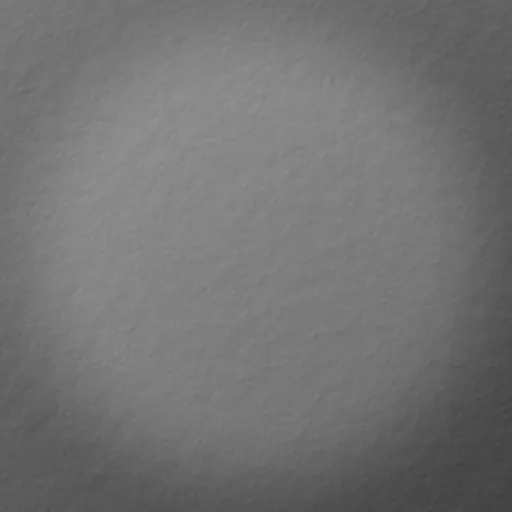
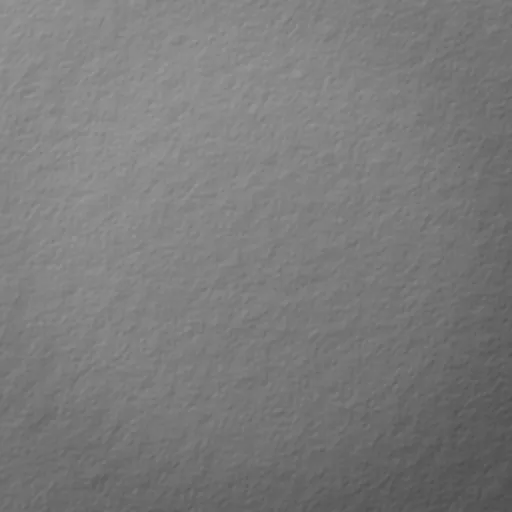
feat(material): Licht-Ebene über der Randabdunklung, Standard an; Steine sofort als Bild (n9 E2)
Abnahme am Bild (A/B-Collagen tests/shots/technik/mat_*): Die Vorbau-Ebene ersetzte die Randabdunklung und wirkte
dadurch flach und heller. Jetzt liegt sie zusätzlich darüber (Licht links oben 30, leichte Vignette 14, Struktur 11) –
Holz und Filz werden satter, dunkle Felder tiefer. MATERIAL_DEFAULT = true (flags.js), ?material=0 lädt die Ebene
gar nicht erst. Bildkosten p95 Halma/Dame/Schnapsen an gegen aus: −0,4 … +0,5 ms (Rauschen), CPU gleich.

Sprites: Steine blieben bis zum ersten Zug Vektor (kein Neuzeichnen, wenn ein Bild fertig wird). spriteLater()
tauscht die Vektor-Formen an Ort und Stelle gegen das fertige Bild, spriteImage() die Rückfall-Größe gegen die
passende Kachel – Dame, Halma, Backgammon, Hold'em-Chips, Vier, Blackjack-Bohnen zeigen ab dem ersten Bild Sprites.

diff --git a/src/ui/svg.js b/src/ui/svg.js
@@ -1,7 +1,8 @@
 // SVG-Helfer für die Bretter: Holzmuster (Poly Haven, CC0), Stein-Verläufe, Schatten, Krone, Animation.
 // Mit Deko (src/ui/deko.js): Steine mit Glanzlicht und weichem Schatten, Krone mit Goldverlauf, Züge mit leichtem Anheben.
 import { DEKO, whenNoise } from './deko.js';
-import { spriteImage } from './sprites.js';
+import { spriteImage, spriteLater } from './sprites.js';
+import { useMaterial } from './flags.js';
 export const NS = 'http://www.w3.org/2000/svg';
 
 export function s(tag, attrs = {}, ...children) {
@@ -102,7 +103,8 @@ export function ensureDekoDefs() {
       s('path', { d: 'M-8 1.5 C-3 -4 3 4.5 8 -1', fill: 'none', stroke: 'rgba(45,15,4,.75)', 'stroke-width': 1.8, 'stroke-linecap': 'round' }),
       s('ellipse', { cx: -4.5, cy: -4, rx: 4.5, ry: 2, transform: 'rotate(-18 -4.5 -4)', fill: '#ffe2c4', opacity: 0.45 })));
   // n9 Material: vorgebackene Licht-Ebene (tools/bake_material.py), streckt sich über die ganze Fläche (soft-light)
-  defs.append(s('pattern', { id: 'dk-matlight', patternContentUnits: 'objectBoundingBox', width: 1, height: 1 },
+  // Licht-Ebene nur laden, wenn das Material an ist (?material=0: kein Abruf)
+  if (useMaterial()) defs.append(s('pattern', { id: 'dk-matlight', patternContentUnits: 'objectBoundingBox', width: 1, height: 1 },
     s('image', { href: 'assets/wood/light-overlay.webp', width: 1, height: 1, preserveAspectRatio: 'none' })));
   // Filz-Rauschen als Muster (Kachel kommt asynchron aus deko.js)
   const noise = s('pattern', { id: 'dk-noise', patternUnits: 'userSpaceOnUse', width: 256, height: 256 });
@@ -130,7 +132,8 @@ function dekoPiece(color, r, king) {
   const white = color === 0;
   const g = s('g', { class: 'pc ' + (white ? 'pc-w' : 'pc-b') });
   // vorgezeichnetes Bild (ein Element statt sieben); bis es fertig ist, dieselbe Form als Vektor
-  const img = spriteImage(s, `st:${white ? 'w' : 'b'}:${king ? 'k' : ''}`, r);
+  const key = `st:${white ? 'w' : 'b'}:${king ? 'k' : ''}`;
+  const img = spriteImage(s, key, r);
   if (img) { g.append(img); return g; }
   g.append(
     s('ellipse', { class: 'pc-sh', cx: r * 0.14, cy: r * 0.24, rx: r * 1.12, ry: r * 1.04, fill: 'url(#dk-shadow)' }),
@@ -143,6 +146,7 @@ function dekoPiece(color, r, king) {
     s('ellipse', { cx: -r * 0.28, cy: -r * 0.34, rx: r * 0.5, ry: r * 0.3, transform: `rotate(-30 ${-r * 0.28} ${-r * 0.34})`, fill: 'url(#dk-spec)', opacity: white ? 0.7 : 0.3 }),
     s('ellipse', { cx: -r * 0.4, cy: -r * 0.46, rx: r * 0.17, ry: r * 0.1, transform: `rotate(-32 ${-r * 0.4} ${-r * 0.46})`, fill: '#fff', opacity: white ? 0.95 : 0.55 }));
   if (king) g.appendChild(crown(r * 0.62));
+  spriteLater(s, key, r, [...g.childNodes]);
   return g;
 }
 
@@ -150,7 +154,8 @@ function dekoPiece(color, r, king) {
 const PIPS = (o) => ({ 1: [[0, 0]], 2: [[-o, -o], [o, o]], 3: [[-o, -o], [0, 0], [o, o]], 4: [[-o, -o], [o, -o], [-o, o], [o, o]], 5: [[-o, -o], [o, -o], [0, 0], [-o, o], [o, o]], 6: [[-o, -o], [o, -o], [-o, 0], [o, 0], [-o, o], [o, o]] });
 export function die3d(v, size, { used = false, blank = false, cls = '' } = {}) {
   const g = s('g', { class: 'die dk-die' + (used ? ' used' : '') + (blank ? ' blank' : '') + (cls ? ' ' + cls : '') });
-  const img = spriteImage(s, `die:${blank ? 0 : v}`, size / 1.62);
+  const dkey = `die:${blank ? 0 : v}`;
+  const img = spriteImage(s, dkey, size / 1.62);
   if (img) { g.append(img); if (used) g.setAttribute('opacity', 0.55); return g; }
   const h = size / 2, rx = size * 0.2;
   g.append(
@@ -163,19 +168,22 @@ export function die3d(v, size, { used = false, blank = false, cls = '' } = {}) {
       s('circle', { cx: px + size * 0.022, cy: py + size * 0.026, r: size * 0.05, fill: '#fff', opacity: 0.18 }));
   }
   if (used) g.setAttribute('opacity', 0.55);
+  spriteLater(s, dkey, size / 1.62, [...g.childNodes]);
   return g;
 }
 
 // farbige Kugel/Scheibe (Halma-Murmel, Ludo-Figur von oben, Vier-Stein): Grundfarbe + Licht + Glanzpunkt + Schatten
 export function ball(col, r, { shadow = true, ring = false } = {}) {
   const g = s('g', { class: 'pc dk-ball' });
-  const img = shadow ? spriteImage(s, `ball:${col}:${ring ? 'r' : ''}`, r) : null;
+  const bkey = `ball:${col}:${ring ? 'r' : ''}`;
+  const img = shadow ? spriteImage(s, bkey, r) : null;
   if (img) { g.append(img); return g; }
   if (shadow) g.append(s('ellipse', { class: 'pc-sh', cx: r * 0.16, cy: r * 0.26, rx: r * 1.1, ry: r * 1.02, fill: 'url(#dk-shadow)' }));
   g.append(s('circle', { r, fill: col, stroke: 'rgba(0,0,0,.55)', 'stroke-width': r * 0.07 }),
     s('circle', { r: r * 0.965, fill: 'url(#dk-ball)' }));
   if (ring) g.append(s('circle', { r: r * 0.66, fill: 'none', stroke: 'rgba(255,255,255,.3)', 'stroke-width': r * 0.08 }));
   g.append(s('ellipse', { cx: -r * 0.32, cy: -r * 0.4, rx: r * 0.36, ry: r * 0.22, transform: `rotate(-30 ${-r * 0.32} ${-r * 0.4})`, fill: 'url(#dk-spec)', opacity: 0.9 }));
+  if (shadow) spriteLater(s, bkey, r, [...g.childNodes]);
   return g;
 }
 

diff --git a/src/ui/sprites.js b/src/ui/sprites.js
@@ -2,8 +2,10 @@
 // gezeichnet (Blob-URL, kein Netz) und dann als ein einziges <image> je Stein benutzt. Das spart gegenüber Vektor-Steinen
 // (bis zu 7 Formen mit Verläufen) Arbeit im Hauptthread und beim Rastern. Erzeugt wird erst bei Bedarf (nur die Sorten
 // des gerade gespielten Spiels); bis ein Bild fertig ist (wenige ms), zeichnet die Ansicht die gleiche Form als Vektor.
-// Kein extra Neuzeichnen, wenn ein Bild fertig wird (das würde z. B. eine angetippte Spalte/Karte verwerfen) – der nächste
-// Zug zeichnet ohnehin neu und nimmt dann die Bilder.
+// Kein extra Neuzeichnen, wenn ein Bild fertig wird (das würde z. B. eine angetippte Spalte/Karte verwerfen). n9: Statt
+// auf den nächsten Zug zu warten, tauscht spriteLater() die Vektor-Formen eines Steins an Ort und Stelle gegen das
+// fertige Bild (die Gruppe des Steins bleibt, samt Lage, Klassen und laufender Animation); ebenso bekommt ein Bild in
+// der Rückfall-Größe die passende Kachel, sobald sie fertig ist.
 // Licht wie überall von links oben, Schatten nach rechts unten. Maße: Kachel S × S Pixel, Objekt-Radius RS.
 // n9 „je Größe“: Die Kachel wird in der Pixelgröße gebacken, in der der Stein auf dem Bildschirm erscheint (Stufen
 // TILES, Maßstab aus setSpriteScale) – große Steine (Desktop, Dame) bleiben scharf, kleine (Halma) kosten beim Rastern
@@ -16,6 +18,7 @@ export const RS = S * 0.36;    // Radius des Objekts in der Kachel (Platz für S
 export const TILES = [48, 64, 96, 128, 168, 224, 288];
 const cache = new Map();       // Schlüssel@Kachel → URL | null (wird gezeichnet) | false (geht nicht)
 const anySize = new Map();     // Schlüssel → zuletzt fertige URL irgendeiner Größe (Rückfall statt Vektor beim Größenwechsel)
+const waiting = new Map();     // Schlüssel@Kachel → [Funktion(url)] – wartet, bis das Bild fertig ist
 const useSprites = urlFlag('sprites', true);
 
 // kleinste Kachelstufe, die einen Stein mit Radius pxR (Gerätepixel) ohne Hochskalieren trägt
@@ -41,8 +44,11 @@ function make(id, key, tile, draw) {
       const url = b ? URL.createObjectURL(b) : false;
       cache.set(id, url);
       if (url) anySize.set(key, url);
+      const fs = waiting.get(id);
+      waiting.delete(id);
+      if (url && fs) for (const f of fs) f(url);
     }, 'image/png');
-  } catch { cache.set(id, false); }
+  } catch { cache.set(id, false); waiting.delete(id); }
 }
 
 // URL des Bildchens oder null (dann bitte als Vektor zeichnen); stößt das Zeichnen beim ersten Aufruf an.
@@ -187,10 +193,40 @@ const DRAW = {
   }
 };
 
-// Bild-Element für eine Sorte, zentriert auf (0, 0); r = gewünschter Objekt-Radius in Brett-Einheiten
-export function spriteImage(s, key, r, cx = 0, cy = 0) {
-  const url = sprite(key, pxPerUnit ? tileFor(r * pxPerUnit) : S);
-  if (!url) return null;
+const tileOf = (r) => (pxPerUnit ? tileFor(r * pxPerUnit) : S);
+function onReady(key, tile, f) {
+  const id = key + '@' + tile;
+  if (!waiting.has(id)) waiting.set(id, []);
+  waiting.get(id).push(f);
+}
+function makeImage(s, url, r, cx, cy) {
   const w = (S * r) / RS;
   return s('image', { href: url, x: cx - w / 2, y: cy - w / 2, width: w, height: w, class: 'dk-spr' });
+}
+
+// Bild-Element für eine Sorte, zentriert auf (0, 0); r = gewünschter Objekt-Radius in Brett-Einheiten.
+// Ist die passende Kachel noch nicht fertig, kommt eine andere Größe; sie wird gegen die passende getauscht.
+export function spriteImage(s, key, r, cx = 0, cy = 0) {
+  const tile = tileOf(r);
+  const url = sprite(key, tile);
+  if (!url) return null;
+  const img = makeImage(s, url, r, cx, cy);
+  if (cache.get(key + '@' + tile) !== url) onReady(key, tile, (u) => img.setAttribute('href', u));
+  return img;
+}
+
+// Stein wurde als Vektor gezeichnet (Bild noch nicht fertig): sobald es fertig ist, die Formen nodes durch das Bild
+// ersetzen – nur wenn sie noch im Dokument hängen (sonst wurde längst neu gezeichnet). attrs: z. B. transform.
+export function spriteLater(s, key, r, nodes, cx = 0, cy = 0, attrs = null) {
+  if (!DEKO.on || !useSprites || typeof document === 'undefined' || !nodes.length) return;
+  const tile = tileOf(r);
+  if (cache.get(key + '@' + tile) === false) return;
+  onReady(key, tile, (url) => {
+    const first = nodes[0];
+    if (!first.isConnected || !first.parentNode) return;
+    const img = makeImage(s, url, r, cx, cy);
+    if (attrs) for (const [k, v] of Object.entries(attrs)) img.setAttribute(k, v);
+    first.parentNode.insertBefore(img, first);
+    for (const n of nodes) n.remove();
+  });
 }

diff --git a/src/ui/material.js b/src/ui/material.js
@@ -2,15 +2,17 @@
 // Filz mit Licht von oben, gebackener weicher Schatten. Alles wird einmal gezeichnet und liegt in der Ebene unter dem
 // Brett (deko.js boardLayers) – Zug-Animationen rastern es nicht neu. Licht kommt immer von links oben.
 import { s } from './svg.js';
-import { urlFlag } from './flags.js';
+import { useMaterial, MATERIAL_DEFAULT } from './flags.js';
 
-// n9 (Audit #5): eine vorgebackene Licht-Ebene (Licht links oben + Vignette + Mikro-Normalen, tools/bake_material.py)
-// ersetzt den Vignetten-Verlauf auf Spielfläche und Filz, dazu eine feine Fase an der Rahmenkante. ?material=0|1.
-// Standard aus, bis der Heavy-Job es am Bild abgenommen hat (A/B-Collage) – dann MATERIAL_DEFAULT = true.
-export const MATERIAL_DEFAULT = false;
-export const useMaterial = () => urlFlag('material', MATERIAL_DEFAULT);
+// n9 (Audit #5): eine vorgebackene Licht-Ebene (Licht links oben + leichte Vignette + Mikro-Normalen,
+// tools/bake_material.py) liegt über der Randabdunklung von Spielfläche und Filz, dazu eine feine Fase an der
+// Rahmenkante. ?material=0 schaltet beides ab (Standard an, flags.js).
+export { useMaterial, MATERIAL_DEFAULT };
 export const MAT_LIGHT = { fill: 'url(#dk-matlight)', style: 'mix-blend-mode: soft-light', class: 'dk-matlight' };
 const LIGHT = MAT_LIGHT;
+
+// Licht-Ebene (nur mit Material) über der Randabdunklung: Licht links oben + feine Struktur, eine Fläche
+export const matLight = (x, y, w, h, rx) => (useMaterial() ? [rr(x, y, w, h, rx, LIGHT)] : []);
 
 // gebackener Schatten unter einer Form (Kopie, schwarz, nach unten versetzt, weichgezeichnet)
 export function shadowUnder(g, shape, { dy = 12, op = 0.5, soft = 'dk-soft' } = {}) {
@@ -43,7 +45,8 @@ export function woodFrame(g, x, y, w, h, rx, { shadow = true, fill = 'url(#sb-wo
 export function inset(g, x, y, w, h, rx, fill) {
   if (fill) g.append(rr(x, y, w, h, rx, { fill }));
   g.append(
-    rr(x, y, w, h, rx, useMaterial() ? LIGHT : { fill: 'url(#dk-vig)' }),
+    rr(x, y, w, h, rx, { fill: 'url(#dk-vig)' }),
+    ...matLight(x, y, w, h, rx),
     rr(x, y, w, h, rx, { fill: 'url(#dk-sheen)' }),
     rr(x - 1.5, y - 1.5, w + 3, h + 3, rx + 1, { fill: 'none', stroke: 'rgba(30,14,4,.55)', 'stroke-width': 3 }),
     s('path', { d: `M ${x + rx} ${y + h + 2.5} H ${x + w - rx}`, stroke: 'rgba(255,236,205,.35)', 'stroke-width': 2, fill: 'none' }));
@@ -51,7 +54,7 @@ export function inset(g, x, y, w, h, rx, fill) {
 
 // nur Glanz + Innenschatten über einer schon gezeichneten Fläche (z. B. Schachbrett aus Feldern)
 export function lacquer(g, x, y, w, h, rx = 0) {
-  g.append(rr(x, y, w, h, rx, useMaterial() ? LIGHT : { fill: 'url(#dk-vig)' }), rr(x, y, w, h, rx, { fill: 'url(#dk-sheen)' }));
+  g.append(rr(x, y, w, h, rx, { fill: 'url(#dk-vig)' }), ...matLight(x, y, w, h, rx), rr(x, y, w, h, rx, { fill: 'url(#dk-sheen)' }));
 }
 
 // Filz (Rechteck): Grundfarbe, Rauschen, Licht von oben, Randabdunklung, Ziernaht
@@ -59,12 +62,12 @@ export function feltRect(g, x, y, w, h, rx, { cls = 'felt', stitch = true, color
   g.append(rr(x, y, w, h, rx, color ? { fill: color } : { class: cls }),
     rr(x, y, w, h, rx, { fill: 'url(#dk-noise)', opacity: 0.9 }),
     rr(x, y, w, h, rx, { fill: 'url(#dk-spot)' }),
-    rr(x, y, w, h, rx, useMaterial() ? LIGHT : { fill: 'url(#dk-feltvig)' }));
+    rr(x, y, w, h, rx, { fill: 'url(#dk-feltvig)' }), ...matLight(x, y, w, h, rx));
   if (stitch) g.append(rr(x + 16, y + 16, w - 32, h - 32, Math.max(4, rx - 8), { fill: 'none', stroke: 'rgba(255,236,190,.2)', 'stroke-width': 2.5, 'stroke-dasharray': '10 7' }));
 }
 
 // Filz (Ellipse, Hold'em)
 export function feltEllipse(g, cx, cy, rx, ry, { cls = 'felt' } = {}) {
   const e = (a) => s('ellipse', { cx, cy, rx, ry, ...a });
-  g.append(e({ class: cls }), e({ fill: 'url(#dk-noise)', opacity: 0.9 }), e({ fill: 'url(#dk-spot)' }), e(useMaterial() ? LIGHT : { fill: 'url(#dk-feltvig)' }));
+  g.append(e({ class: cls }), e({ fill: 'url(#dk-noise)', opacity: 0.9 }), e({ fill: 'url(#dk-spot)' }), e({ fill: 'url(#dk-feltvig)' }), ...(useMaterial() ? [e(LIGHT)] : []));
 }

diff --git a/src/games/holdem/view.js b/src/games/holdem/view.js
@@ -8,7 +8,7 @@ import * as E from './engine.js';
 import { evaluate, handName, catName, draws, bestFive } from './eval.js';
 import { handClass, PERCENTILE } from './equity.js';
 import { s, ensureDefs, place, flyIn, fadeIn, toScreen, onTap, ball } from '../../ui/svg.js';
-import { spriteImage } from '../../ui/sprites.js';
+import { spriteImage, spriteLater } from '../../ui/sprites.js';
 import { holdemTimes, OWN } from '../../tempo.js';
 import { frCard, backCard, ensureCardDefs, frHeight } from '../../ui/cards.js';
 import { SEAT_COLORS } from '../../ui/seatcolors.js';
@@ -41,6 +41,7 @@ function dkChip(g, x, y, r, col) {
   const img = spriteImage(s, 'chip:' + col, r, x, y);
   if (img) { g.append(img); return; }
   const ry = r * 0.42, e = (a) => s('ellipse', { cx: x, rx: r, ry, ...a });
+  const n0 = g.childNodes.length;
   g.append(e({ cy: y + 5, fill: 'rgba(0,0,0,.28)' }),
     e({ cy: y + 3.5, fill: col, stroke: 'rgba(0,0,0,.45)', 'stroke-width': 1.5 }),
     e({ cy: y + 3.5, fill: 'url(#dk-chipedge)' }),
@@ -48,6 +49,7 @@ function dkChip(g, x, y, r, col) {
     e({ cy: y, fill: 'none', stroke: '#fff7e6', 'stroke-width': 2.6, 'stroke-dasharray': `${r * 0.42} ${r * 0.36}` }),
     s('ellipse', { cx: x, cy: y, rx: r * 0.62, ry: ry * 0.62, fill: 'none', stroke: 'rgba(255,247,230,.55)', 'stroke-width': 1.6 }),
     s('ellipse', { cx: x - r * 0.25, cy: y - ry * 0.35, rx: r * 0.45, ry: ry * 0.32, fill: '#fff', opacity: 0.22 }));
+  spriteLater(s, 'chip:' + col, r, [...g.childNodes].slice(n0), x, y);
 }
 // Betrag in Chips zerlegen (größte zuerst), höchstens 3 Stapel × 6 Chips
 function dkStacks(amount) {

diff --git a/src/games/vier/view.js b/src/games/vier/view.js
@@ -3,7 +3,7 @@
 // nochmal antippen → einwerfen (Schutz vor Fehltipps, wie das Ausspielen bei Schnapsen). Gewinnreihe leuchtet.
 import { COLS, ROWS } from './engine.js';
 import { s, ensureDefs, toBoard, toScreen, onTap } from '../../ui/svg.js';
-import { spriteImage } from '../../ui/sprites.js';
+import { spriteImage, spriteLater } from '../../ui/sprites.js';
 import { OWN, vierFall } from '../../tempo.js';
 import { DEKO, boardLayers } from '../../ui/deko.js';
 import { shadowUnder } from '../../ui/material.js';
@@ -60,6 +60,7 @@ export function createBoard(host, { onMove, onHint }) {
         s('circle', { r: R * 0.66, fill: 'none', stroke: 'rgba(0,0,0,.22)', 'stroke-width': 5, transform: 'translate(1.5 2)' }),
         s('circle', { r: R * 0.66, fill: 'none', stroke: 'rgba(255,255,255,.42)', 'stroke-width': 4 }),
         s('ellipse', { cx: -R * 0.34, cy: -R * 0.42, rx: R * 0.34, ry: R * 0.18, transform: `rotate(-30 ${-R * 0.34} ${-R * 0.42})`, fill: '#fff', opacity: 0.6 }));
+      spriteLater(s, 'v4:' + COLORS[seat], R, [...g.childNodes]);
       return g;
     }
     g.append(s('circle', { r: R, fill: COLORS[seat], stroke: 'rgba(0,0,0,.45)', 'stroke-width': 3 }),

diff --git a/src/games/blackjack/view.js b/src/games/blackjack/view.js
@@ -7,7 +7,7 @@ import { OWN } from '../../tempo.js';
 import { frCard, backCard, ensureCardDefs, frHeight } from '../../ui/cards.js';
 import { SEAT_COLORS } from '../../ui/seatcolors.js';
 import { DEKO, boardLayers } from '../../ui/deko.js';
-import { spriteImage } from '../../ui/sprites.js';
+import { spriteImage, spriteLater } from '../../ui/sprites.js';
 import { woodFrame, feltRect } from '../../ui/material.js';
 
 const SIZE = 1000;
@@ -84,7 +84,11 @@ export function createBoard(host, { onHint }) {
       const tr = `translate(${x.toFixed(1)} ${y.toFixed(1)}) rotate(${rot})`;
       const img = spriteImage(s, 'bean', 13.5 * k);
       if (img) { img.setAttribute('transform', tr); pile.append(img); }
-      else pile.append(s('use', { href: '#dk-bean', x: -15 * k, y: -11 * k, width: 30 * k, height: 22 * k, transform: tr }));
+      else {
+        const u = s('use', { href: '#dk-bean', x: -15 * k, y: -11 * k, width: 30 * k, height: 22 * k, transform: tr });
+        pile.append(u);
+        spriteLater(s, 'bean', 13.5 * k, [u], 0, 0, { transform: tr });
+      }
     }
     g.append(pile);
   }

diff --git a/sw.js b/sw.js
@@ -5,7 +5,7 @@
 //   (?h=…), so lädt ein Update nur fehlende oder geänderte Bilder nach; alte Fassungen werden beim Aktivieren entfernt.
 // Kartenpakete (n9): die @2x-Einzelkarten liegen bitgleich in 2 Paketen (tools/cardpack.py). Vorab geladen werden nur
 // die Pakete; eine Karten-Anfrage beantwortet der Worker mit dem Ausschnitt aus dem Paket (Blob.slice, ohne Kopie).
-const VERSION = '53a9b52014';
+const VERSION = '3896d093aa';
 const CORE = 'spielebox-core-' + VERSION;
 const ASSETS = 'spielebox-assets';
 const CORE_FILES = [
@@ -339,7 +339,7 @@ const ASSET_HASH = {
   'assets/wood/dark.webp': 'e8d44bb775',
   'assets/wood/frame.jpg': '56dcbc378c',
   'assets/wood/frame.webp': '737426a5c8',
-  'assets/wood/light-overlay.webp': '3a6a6d667d',
+  'assets/wood/light-overlay.webp': 'bc61655046',
   'assets/wood/light.jpg': 'a9a5d250d3',
   'assets/wood/light.webp': 'ddd41ed8ab'
 };

diff --git a/src/games/halma/view.js b/src/games/halma/view.js
@@ -74,7 +74,8 @@ export function createBoard(host, { onMove, onHint }) {
       if (col) gB.append(s('polygon', { points: poly(grow(campPoly(k), -24)), fill: col, opacity: seat >= 0 ? 0.3 : 0.15 }));
     }
     // n9 Material (?material=1): vorgebackene Licht-Ebene statt Vignetten-Verlauf (TODO Heavy-Job: Deckkraft am Bild)
-    if (L) gB.append(s('circle', { cx: 0, cy: 0, r: 760, ...(useMaterial() ? MAT_LIGHT : { fill: 'url(#dk-vig)', opacity: 0.6 }) }));
+    if (L) gB.append(s('circle', { cx: 0, cy: 0, r: 760, fill: 'url(#dk-vig)', opacity: 0.6 }));
+    if (L && useMaterial()) gB.append(s('circle', { cx: 0, cy: 0, r: 760, ...MAT_LIGHT }));
     const holes = s('g', { class: 'holes' });
     HOLES.forEach((_, i) => {
       const [x, y] = xy(i);

diff --git a/src/ui/flags.js b/src/ui/flags.js
@@ -1,5 +1,10 @@
 // URL-Regler für A/B-Vergleiche (Technik n9): ?atlas=1 (Karten aus dem Atlas statt Einzeldateien), ?sprites=0 (Steine als Vektor),
 // ?material=0|1 (vorgebackene Licht-Ebene auf Holz/Filz). '0' = aus, '1' = an, sonst gilt der Standard.
+// Material (n9 E2): vorgebackene Licht-Ebene über Holz/Filz + Fase. Standard an seit der Abnahme am Bild (09.10.,
+// tests/shots/technik/mat_*). Hier statt in material.js, damit svg.js es ohne Import-Kreis fragen kann.
+export const MATERIAL_DEFAULT = true;
+export const useMaterial = () => urlFlag('material', MATERIAL_DEFAULT);
+
 export function urlFlag(name, dflt = true) {
   try {
     const v = new URLSearchParams(globalThis.location?.search || '').get(name);

diff --git a/src/build.js b/src/build.js
@@ -1,1 +1,1 @@
-export const BUILD = '53a9b52014';
+export const BUILD = '3896d093aa';

diff --git a/tests/technik_n9.py b/tests/technik_n9.py
@@ -143,3 +143,61 @@ if __name__ == '__main__':
     for a in sys.argv[2:]:
         if a.startswith('--nur='): only = a.split('=', 1)[1].split(',')
     {'karten': karten, 'speicher': speicher}[cmd](only)
+
+
+# ---------- A/B-Bilder: Varianten (Wurzel + URL-Regler) fotografieren und als Collage nebeneinanderlegen ----------
+# Variante = (Name, Wurzelordner oder None = dieses Repo, Regler). Vorher-Stand: git worktree add /tmp/spielebox_vorher f2cbf5f
+def ab_shots(variants, names, forms=('hoch', 'quer')):
+    from deko_rundgang import shoot_scene
+    with sync_playwright() as pw:
+        b = launch(pw)
+        for label, root, q in variants:
+            with Server(root or ROOT) as srv:
+                for name in names:
+                    for form in forms:
+                        _, errs = shoot_scene(b, srv.base, name, form, 'technik_' + label, q)
+                        if errs: print(f'  ❌ {label} {name} {form}: {errs[:2]}')
+                print(f'  📷 {label}', flush=True)
+        b.close()
+
+
+def ab_collage(labels, names, forms=('hoch', 'quer'), prefix='ab', crop=None):
+    """Collage je Szene und Lage: Varianten nebeneinander (verkleinert), optional darunter ein Ausschnitt in voller Größe
+    (crop = (x0, y0, x1, y1) relativ 0..1) – dort sieht man Material und Schärfe."""
+    from PIL import Image, ImageDraw, ImageFont
+    font = ImageFont.load_default()
+    for fp in ['/System/Library/Fonts/Supplemental/Arial Bold.ttf', '/usr/share/fonts/TTF/DejaVuSans-Bold.ttf']:
+        try: font = ImageFont.truetype(fp, 30); break
+        except Exception: pass
+    made = []
+    for name in names:
+        for form in forms:
+            fs = [os.path.join(ROOT, 'tests', 'shots', 'deko', 'technik_' + l, f'{name}_{form}.png') for l in labels]
+            fs = [f if os.path.exists(f) else f.replace('.png', '_2.png') for f in fs]
+            if not all(os.path.exists(f) for f in fs): continue
+            ims = [Image.open(f).convert('RGB') for f in fs]
+            k = 0.42 if form == 'hoch' else 0.36
+            sm = [im.resize((int(im.width * k), int(im.height * k)), Image.LANCZOS) for im in ims]
+            cr = []
+            if crop:
+                for im in ims:
+                    W, H = im.size
+                    c = im.crop((int(crop[0] * W), int(crop[1] * H), int(crop[2] * W), int(crop[3] * H)))
+                    s = sm[0].width / c.width
+                    cr.append(c.resize((sm[0].width, int(c.height * s)), Image.LANCZOS) if s < 1 else c)
+            pad, head = 14, 48
+            W = sum(i.width for i in sm) + pad * (len(sm) + 1)
+            H = head + max(i.height for i in sm) + pad + (max(c.height for c in cr) + pad if cr else 0)
+            out = Image.new('RGB', (W, H), (24, 24, 24))
+            d = ImageDraw.Draw(out)
+            x = pad
+            for i, (l, im) in enumerate(zip(labels, sm)):
+                d.text((x, 8), l, fill=(255, 214, 120) if i else (230, 230, 230), font=font)
+                out.paste(im, (x, head))
+                if cr: out.paste(cr[i], (x, head + im.height + pad))
+                x += im.width + pad
+            p = os.path.join(OUT, f'{prefix}_{name}_{form}.jpg')
+            out.save(p, quality=84, optimize=True)
+            made.append(p)
+    print('\n'.join(made))
+    return made

diff --git a/tools/bake_material.py b/tools/bake_material.py
@@ -22,8 +22,10 @@ ROOT = Path(__file__).resolve().parent.parent
 OUT = ROOT / "assets" / "wood" / "light-overlay.webp"
 N = 512
 SEED = 9
-# Startwerte (Grauwert-Abweichung von 128 bei voller Wirkung). TODO Heavy-Job: am Bild abstimmen.
-STRENGTH = {"light": 26.0, "vignette": 34.0, "micro": 7.0}
+# Grauwert-Abweichung von 128 bei voller Wirkung. Abgestimmt am Bild (09.10., A/B-Collagen tests/shots/technik/mat_*):
+# die Ebene liegt ZUSÄTZLICH über der bisherigen Randabdunklung (dk-vig/dk-feltvig) – allein wirkte sie flach und hell.
+# Darum hier nur eine leichte zusätzliche Vignette, dafür deutlicheres Licht von links oben und feine Struktur.
+STRENGTH = {"light": 30.0, "vignette": 14.0, "micro": 11.0}
 LIGHT_DIR = np.array([-0.62, -0.78])   # Licht kommt von links oben (Bildkoordinaten: x nach rechts, y nach unten)
 
 
